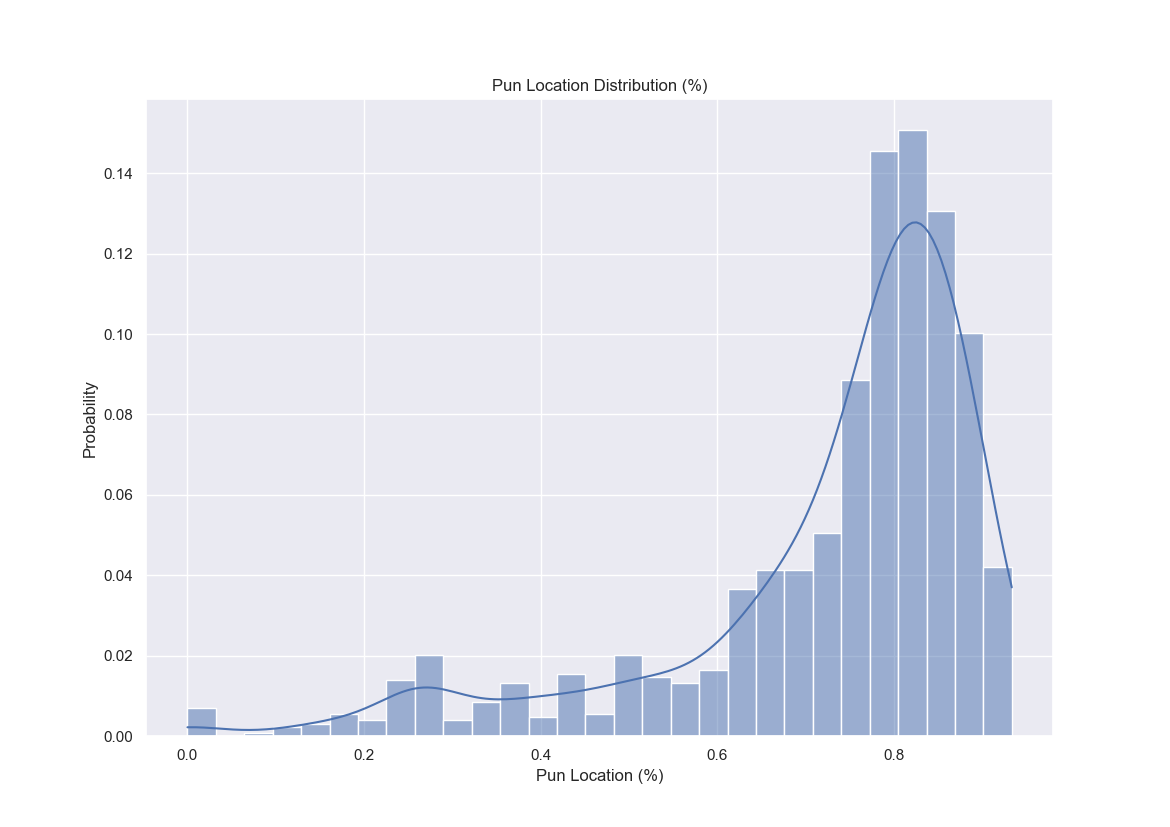
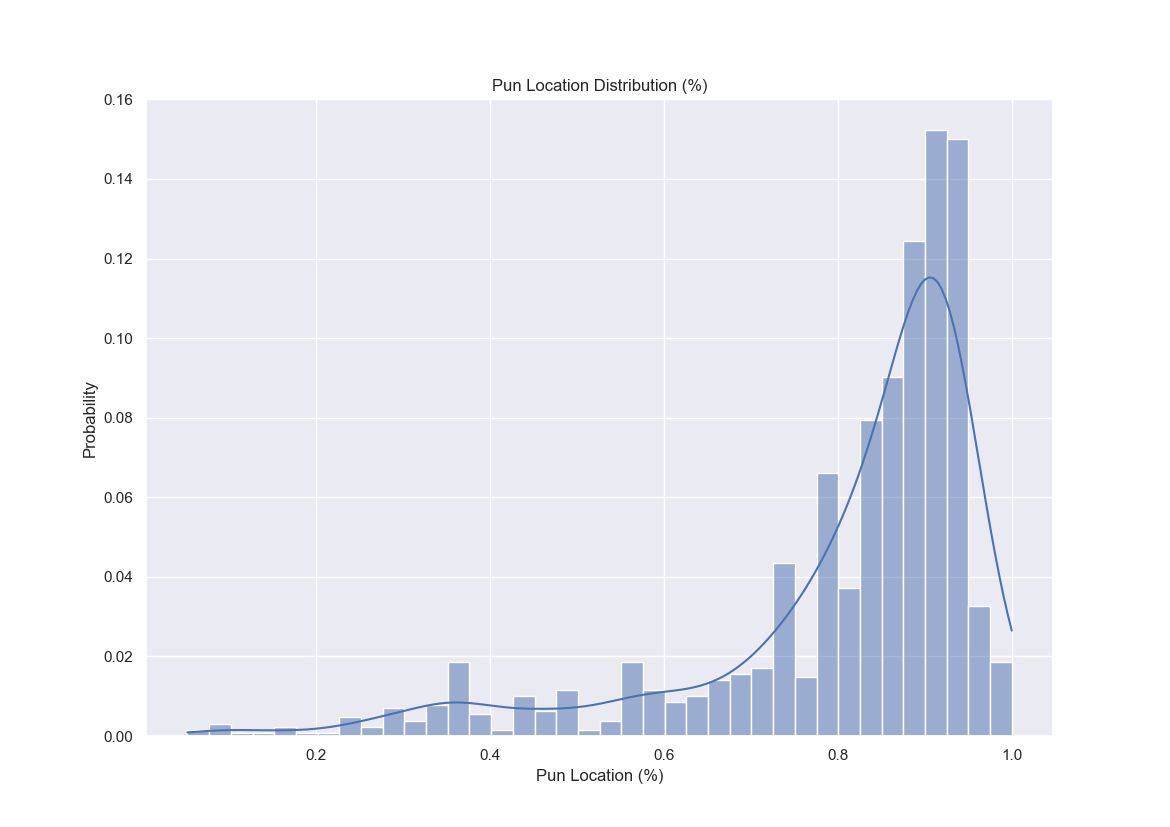
Update plot

diff --git a/Plot.py b/Plot.py
@@ -31,7 +31,7 @@ plt.savefig('location dis.png')
 plt.figure()
 
 sns.histplot(
-    x=(df['word_id'] / df['text'].apply(len)),
+    x=((df['word_id'] + 1) / df['text'].apply(len)),
     kde=True,
     stat='probability'
 ).set(
